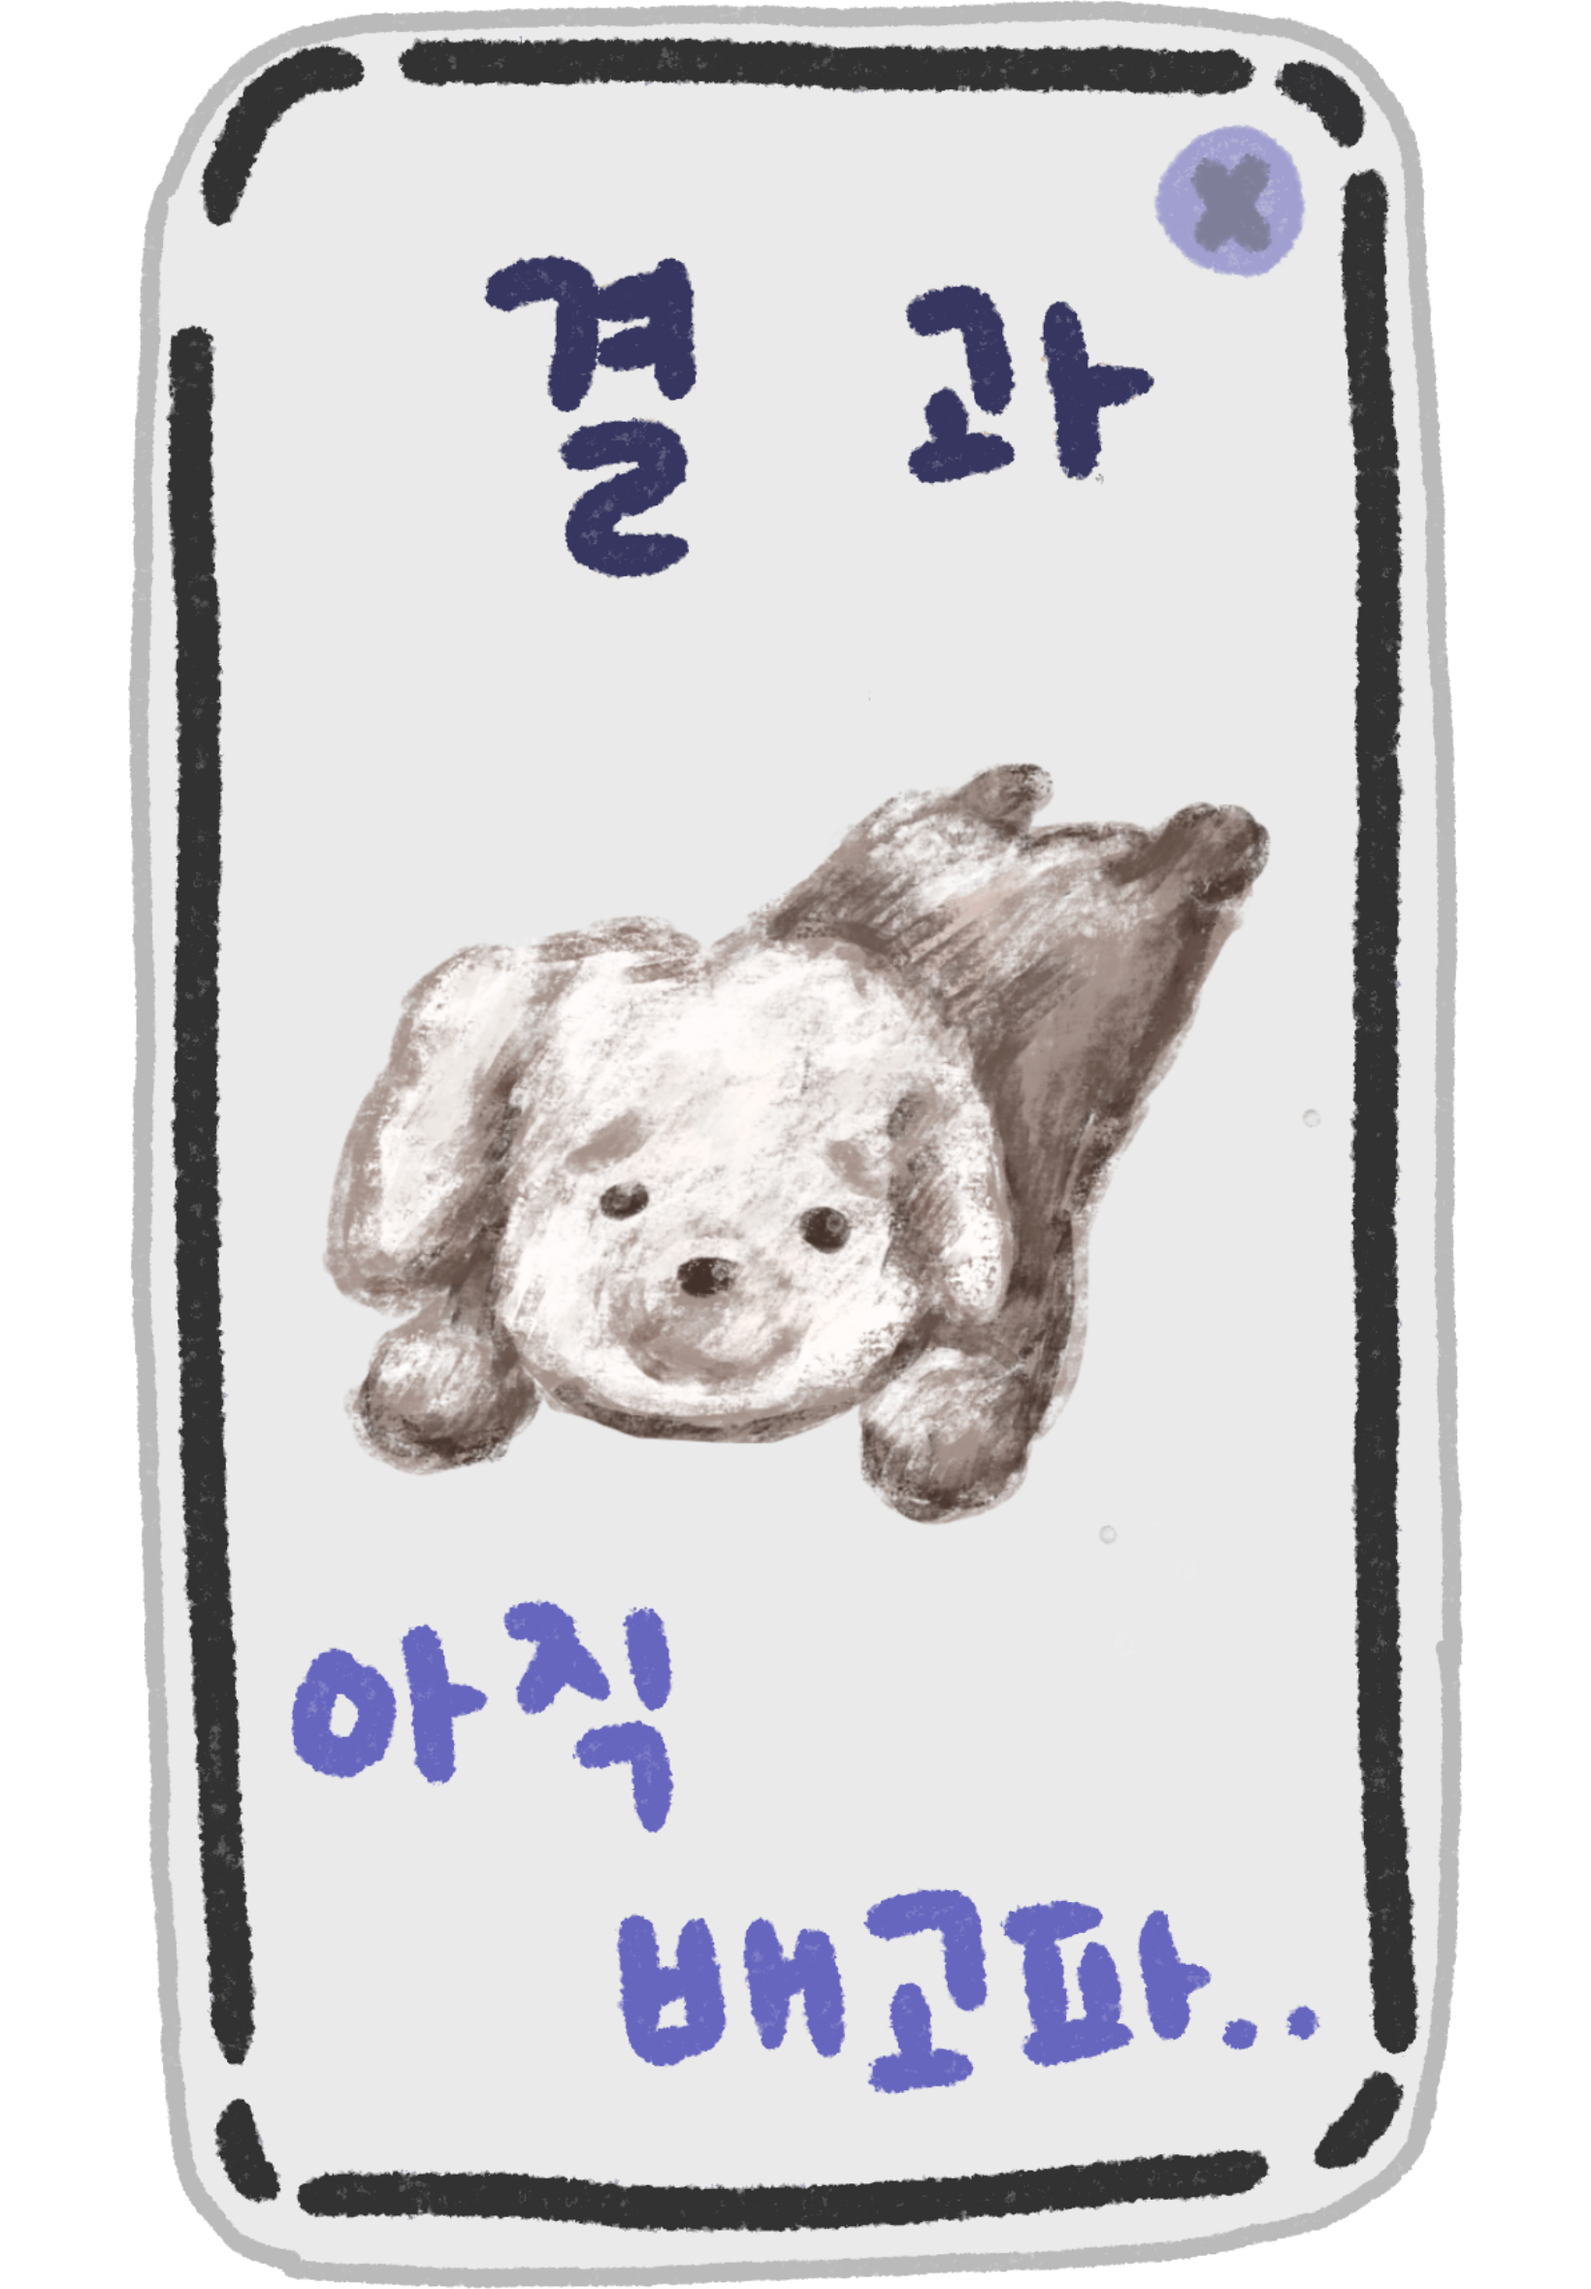
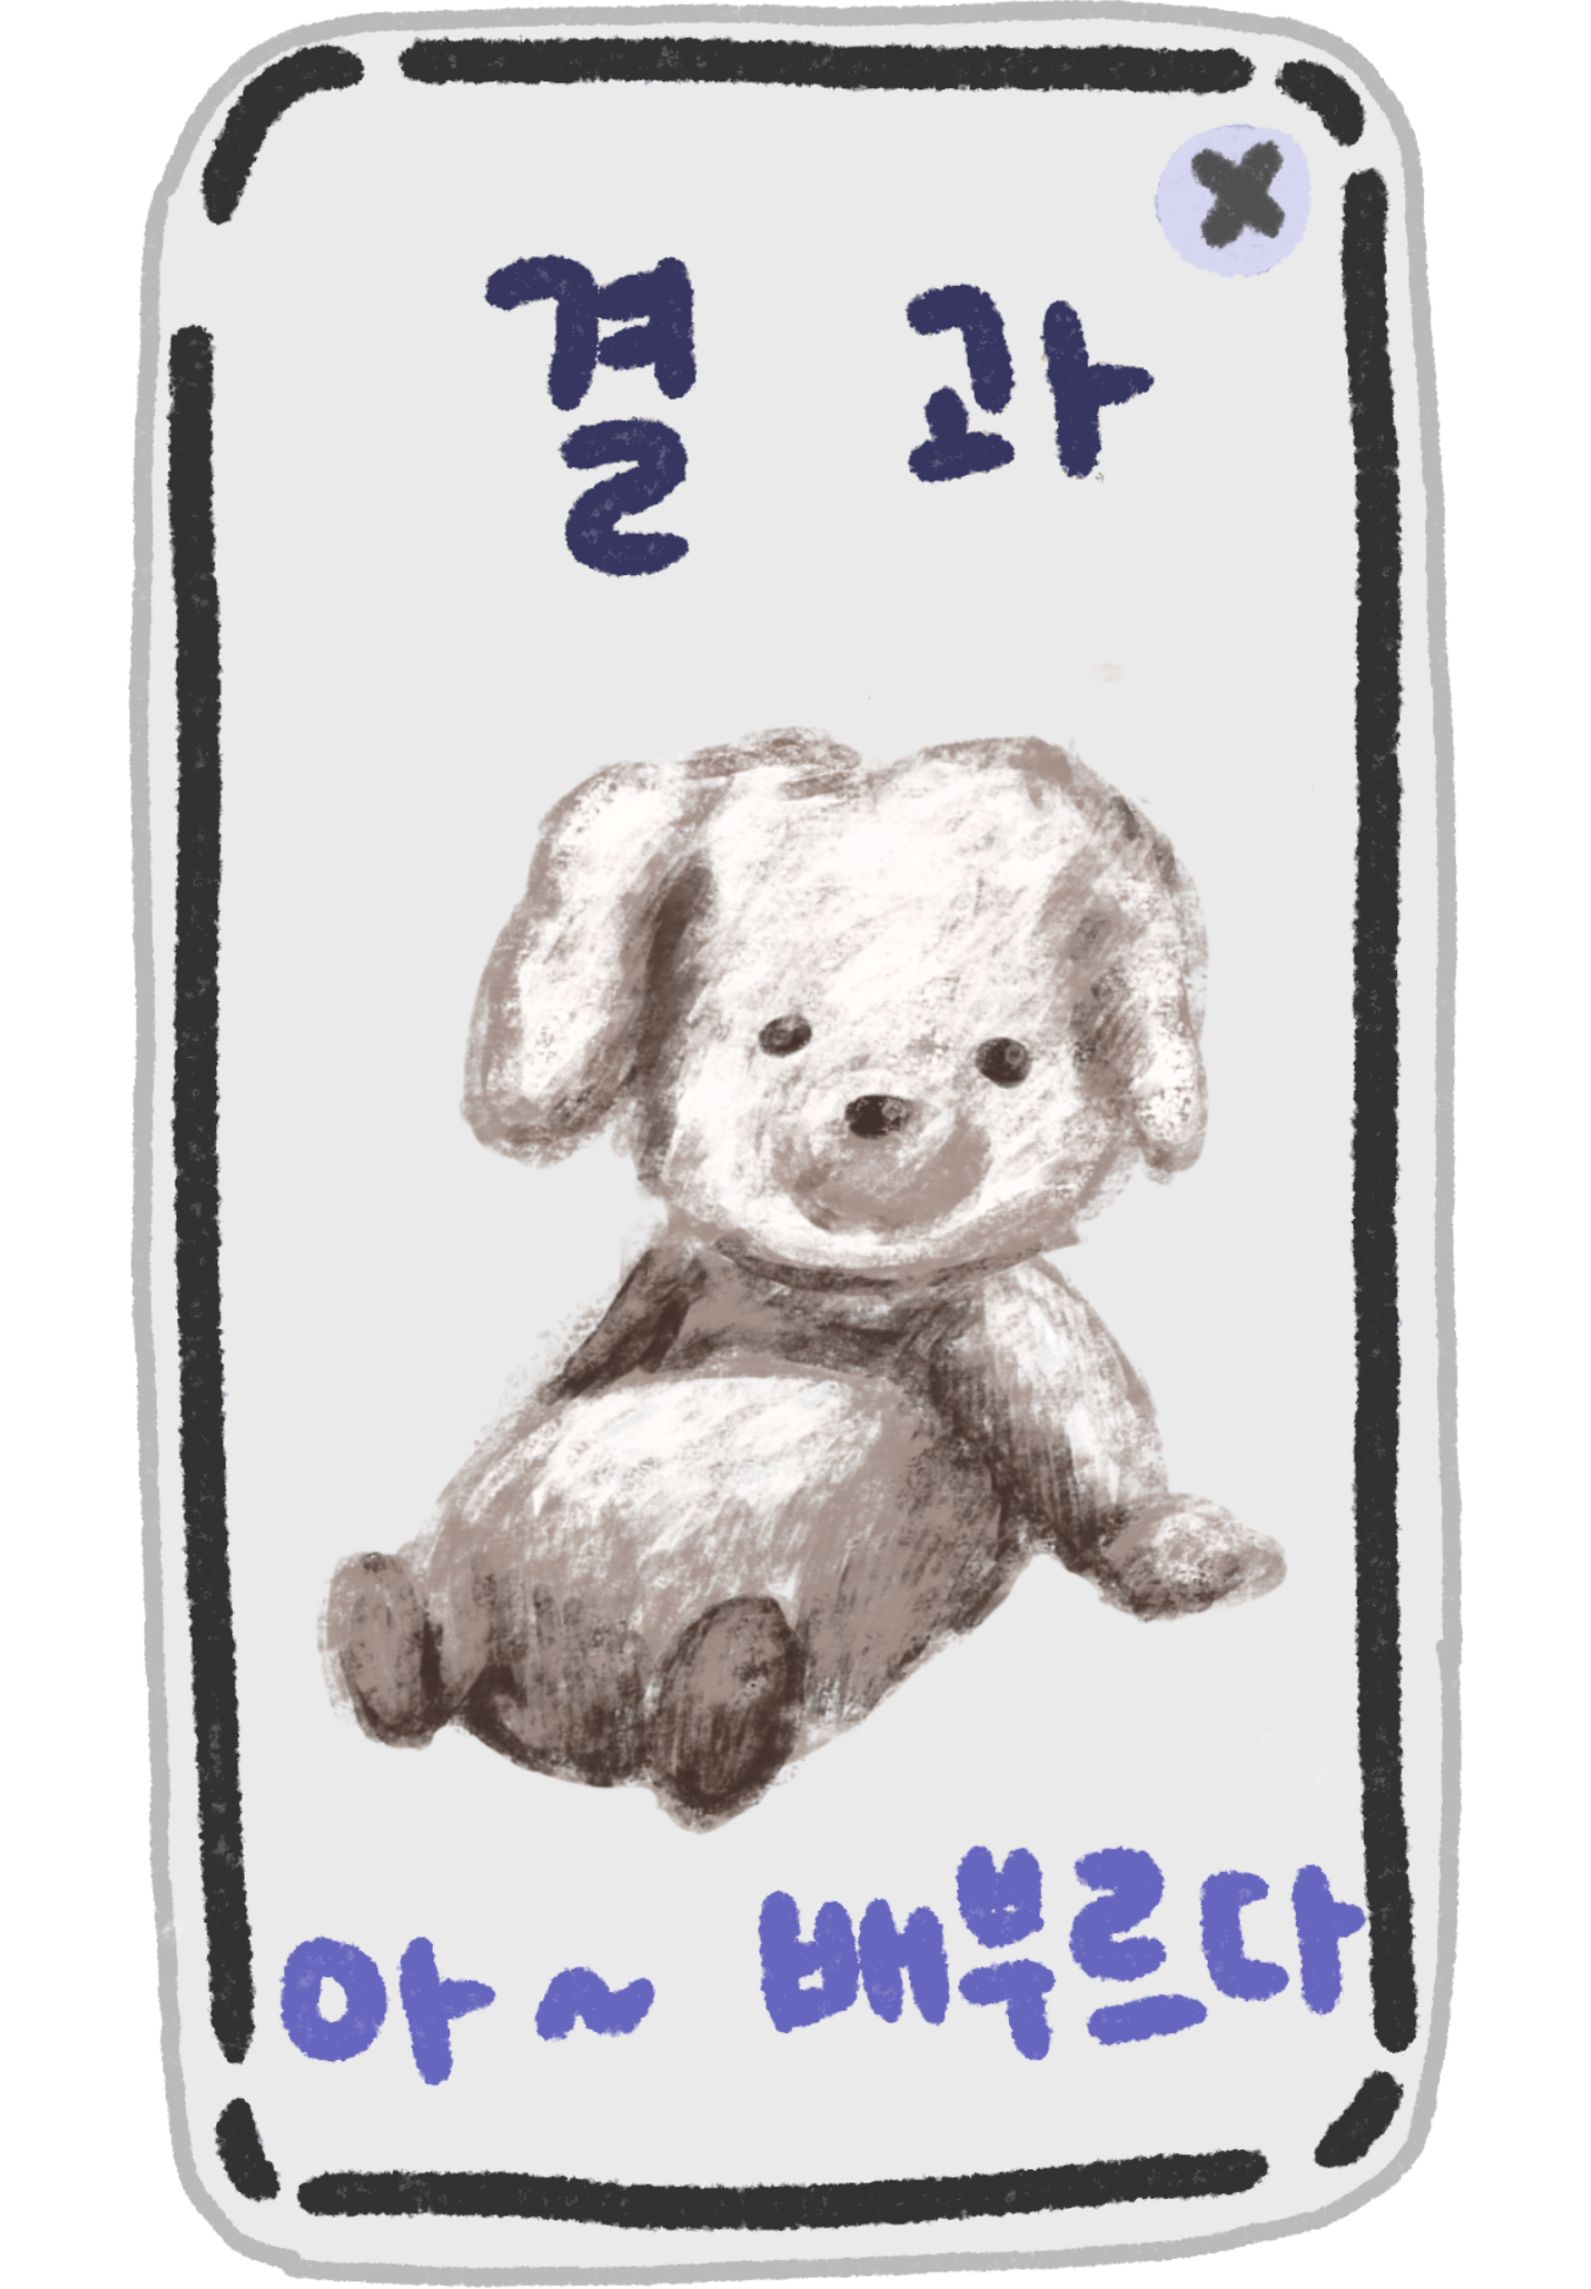
comment

diff --git a/1.나는굶주렸다.js b/1.나는굶주렸다.js
@@ -78,10 +78,9 @@ function updateTimer() {
 
   
 
-
     
     //------------승패판단---------------
-    if (currentscore>=45) {
+    if (currentscore>=30) {
         const firstresult = document.createElement("img");
         firstresult.src = "firstresult.png";
         firstresult.style.position = "absolute";
@@ -92,19 +91,6 @@ function updateTimer() {
         firstresult.style.transform = "translate(-50%, -50%)"; // 정확한 중앙 정렬
         firstresult.style.zIndex = 100; // 다른 요소 위에 표시
         firstresult.id = 'resultImage'; 
-        document.body.appendChild(firstresult);
-    }
-    if (currentscore>=30 && currentscore<45) {
-        const firstresult = document.createElement("img");
-        secondresult.src = "firstresult.png";
-        secondresult.style.position = "absolute";
-        secondresult.style.width = "auto";
-        secondresult.style.height = "70%";
-        secondresult.style.top = "50%";
-        secondresult.style.left = "50%";
-        secondresult.style.transform = "translate(-50%, -50%)"; // 정확한 중앙 정렬
-        secondresult.style.zIndex = 100; // 다른 요소 위에 표시
-        secondresult.id = 'resultImage'; 
         document.body.appendChild(firstresult);
     }
     if (currentscore>0 && currentscore<30) {
@@ -120,6 +106,8 @@ function updateTimer() {
         thirdresult.id = 'resultImage'; 
         document.body.appendChild(thirdresult);
     }
+
+    const resultImage = document.getElementById('resultImage');
 
     if (resultImage) {
         resultImage.addEventListener('click', () => {

diff --git a/3.js b/3.js
@@ -9,6 +9,7 @@ const instruction1 = document.getElementById('instruction1');
 
 const success = document.getElementById('success');
 const fail = document.getElementById('fail');
+const following = document.getElementById('following');
 
 const totalgametime = 15;
 const wintime=1;
@@ -65,6 +66,21 @@ target.addEventListener('mouseleave', () => {
 
 
 ///--------------노션 정리 할 것--------------//
+
+
+
+//터치 좌표 따라다니기
+document.addEventListener('touchmove', (e) => {
+
+    e.preventDefault(); 
+    
+    const X = e.touches[0].clientX;
+    const Y = e.touches[0].clientY;
+
+    following.style.left = X + 'px';
+    following.style.top = Y + 'px';
+}, { passive: false });
+
 
     window.addEventListener('touchstart', (e) => { 
    

diff --git a/index.html b/index.html
@@ -39,22 +39,22 @@ z-index: 1;
     position: absolute;
     left: 0%;
     top: 0%;
-    width: 50%;
+    width: 40%;
 }
 
 #secondgame{
     position: absolute;
     left: 60%;
     top: 15%;
-    width: 45%;
+    width: 4%;
 
 }
 
 #thirdgame{
     position: absolute;
     left: 0%;
-    top: 25%;
-    width: 50%;
+    top: 20%;
+    width: 40%;
 }
 
 </style>

diff --git a/3.나로봇청소기와집에.html b/3.나로봇청소기와집에.html
@@ -8,7 +8,7 @@
     user-select: none;
     width: 100%;
     height: 100%;
-   
+ 
     padding: 0;
 
 }
@@ -119,18 +119,6 @@ width: 100%;
 display: none;
 }
 
-#homebutton {
-    position:absolute;
-   
-    top: 100%;
-    left: 50%;
-    
-    transform: translate(-50%, -50%); 
-
-
-    display: block;
-
-}
 
 
 #homebutton {

diff --git a/2.제발자리있어라.html b/2.제발자리있어라.html
@@ -2,7 +2,14 @@
 
 
 <style>
-
+html,
+body {
+    overflow: hidden;
+    margin: 0px;
+    user-select: none;
+    width: 100%;
+    height: 100%;
+}
 
 body{
     background-color: rgb(225, 219, 196);
